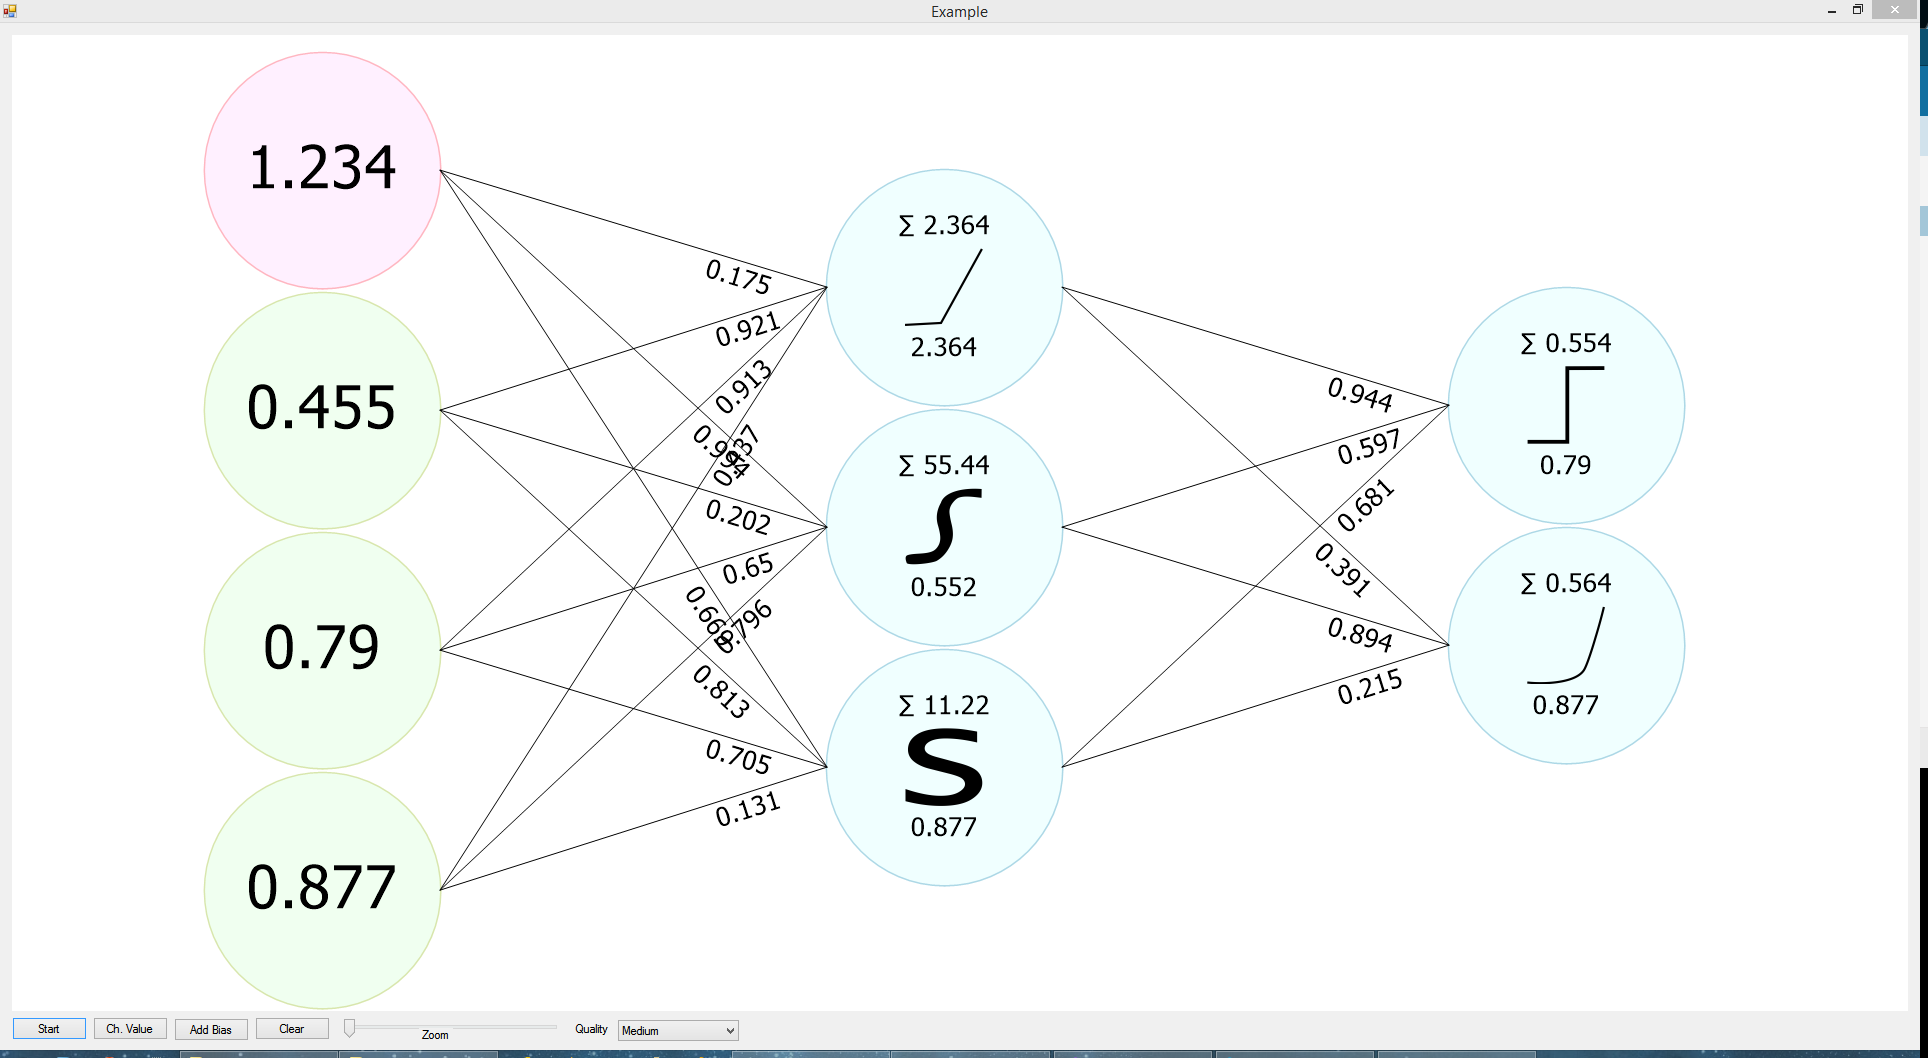
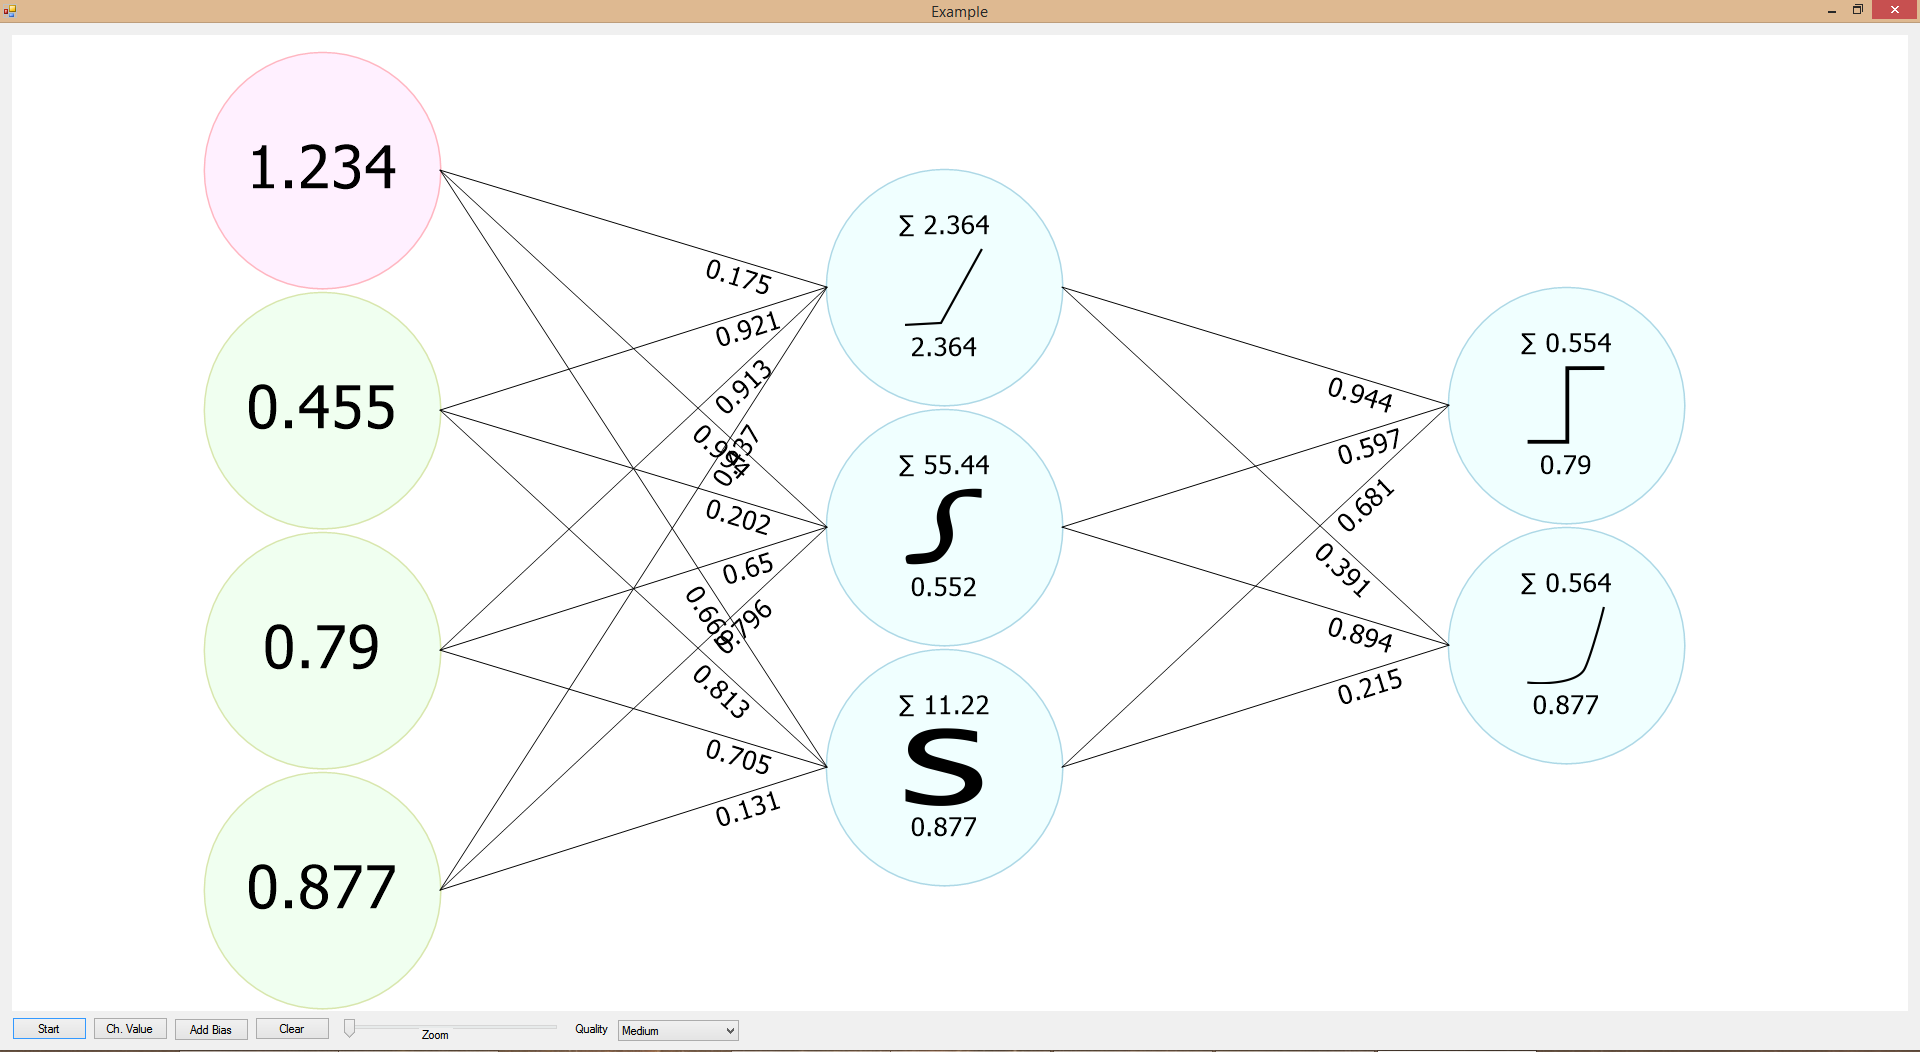
Preferences tweaks 2

diff --git a/NeuralNetworkViewer/Drawing/Canvas/GraphicsCanvas.cs b/NeuralNetworkViewer/Drawing/Canvas/GraphicsCanvas.cs
@@ -27,10 +27,10 @@ namespace NeuralNetworkVisualizer.Drawing.Canvas
             rect.Width = Math.Min(this.MaxWidth, rect.Width);
             rect.Height = Math.Min(this.MaxHeight, rect.Height);
 
-            if (brush != null)
+            if (Validate(brush))
                 _Graph.FillRectangle(brush, rect);
 
-            if (pen != null)
+            if (Validate(pen))
                 _Graph.DrawRectangle(pen, rect);
 
         }
@@ -40,25 +40,30 @@ namespace NeuralNetworkVisualizer.Drawing.Canvas
             rect.Width = Math.Min(this.MaxWidth, rect.Width);
             rect.Height = Math.Min(this.MaxHeight, rect.Height);
 
-            if (pen != null)
+            if (Validate(pen))
                 _Graph.DrawEllipse(pen, rect);
 
-            if (brush != null)
+            if (Validate(brush))
                 _Graph.FillEllipse(brush, rect);
         }
 
         public void DrawText(string text, Font font, Point position, Brush brush, StringFormat format)
         {
-            _Graph.DrawString(text, font, brush, position, format);
+            if (Validate(brush))
+                _Graph.DrawString(text, font, brush, position, format); //if the other args are null throw the exception
         }
 
         public void DrawText(string text, FontInfo fontInfo, Rectangle rect, Brush brush, StringFormat format)
         {
-            DrawAdjustedFontString(text, fontInfo, rect.Size, (font) => _Graph.DrawString(text, font, brush, rect, format));
+            if (Validate(brush))
+                DrawAdjustedFontString(text, fontInfo, rect.Size, (font) => _Graph.DrawString(text, font, brush, rect, format));
         }
 
         public void DrawText(string text, FontInfo fontInfo, Rectangle rect, Brush brush, StringFormat format, float angle)
         {
+            if (!Validate(brush))
+                return;
+
             DrawAdjustedFontString(text, fontInfo, rect.Size, (font) =>
             {
                 var transform = _Graph.Transform;
@@ -79,7 +84,8 @@ namespace NeuralNetworkVisualizer.Drawing.Canvas
 
         public void DrawLine(Point p1, Point p2, Pen pen)
         {
-            _Graph.DrawLine(pen, p1, p2);
+            if (Validate(pen))
+                _Graph.DrawLine(pen, p1, p2);
         }
 
         public void DrawImage(Image image, Point position, Size size)
@@ -128,6 +134,18 @@ namespace NeuralNetworkVisualizer.Drawing.Canvas
             }
 
             return null;
+        }
+
+        private bool Validate(Brush brush)
+        {
+            var solid = brush as SolidBrush;
+
+            return brush != null && (solid == null || solid.Color.ToArgb() != Color.Transparent.ToArgb());
+        }
+
+        private bool Validate(Pen pen)
+        {
+            return pen != null && pen.Color.ToArgb() != Color.Transparent.ToArgb();
         }
     }
 }

diff --git a/NeuralNetworkViewer/Preferences/LayerPreference.cs b/NeuralNetworkViewer/Preferences/LayerPreference.cs
@@ -13,14 +13,14 @@ namespace NeuralNetworkVisualizer.Preferences
             set => _background = value;
         }
 
-        private Pen _border = Pens.Black;
+        private Pen _border;
         public Pen Border
         {
-            get => _border;
+            get => _border ?? (_border = Pens.Transparent);
             set => _border = value;
         }
 
-        private LayerTitlePreference _title = new LayerTitlePreference() { Background = new GradientBrushPreference(Color.LightSteelBlue, Color.LightSkyBlue, 90), Font = { FontStyle = FontStyle.Bold }, Height = 20 };
+        private LayerTitlePreference _title;
         public LayerTitlePreference Title
         {
             get => _title ?? (_title = new LayerTitlePreference());

diff --git a/NeuralNetworkViewer/Preferences/Preference.cs b/NeuralNetworkViewer/Preferences/Preference.cs
@@ -6,7 +6,13 @@ namespace NeuralNetworkVisualizer.Preferences
 {
     public class Preference : IDisposable
     {
-        private LayerPreference _layers;
+        private LayerPreference _layers = new LayerPreference
+        {
+            Title = new LayerTitlePreference() { Background = new GradientBrushPreference(Color.LightSteelBlue, Color.LightSkyBlue, 90), Font = new TextPreference { FontStyle = FontStyle.Bold }, Height = 20 },
+            Border = Pens.Black,
+            Background = new SolidBrushPreference(Color.Transparent)
+        };
+
         private NodePreference _inputs;
         private NodePreference _perceptrons;
         private NodePreference _biases;

diff --git a/NeuralNetworkViewer/Preferences/Brushes/SolidBrushPreference.cs b/NeuralNetworkViewer/Preferences/Brushes/SolidBrushPreference.cs
@@ -13,7 +13,7 @@ namespace NeuralNetworkVisualizer.Preferences.Brushes
 
         public Brush CreateBrush()
         {
-            return new SolidBrush(_color);
+            return (_color != Color.Transparent ? new SolidBrush(_color) : System.Drawing.Brushes.Transparent.Clone() as Brush);
         }
     }
 }
